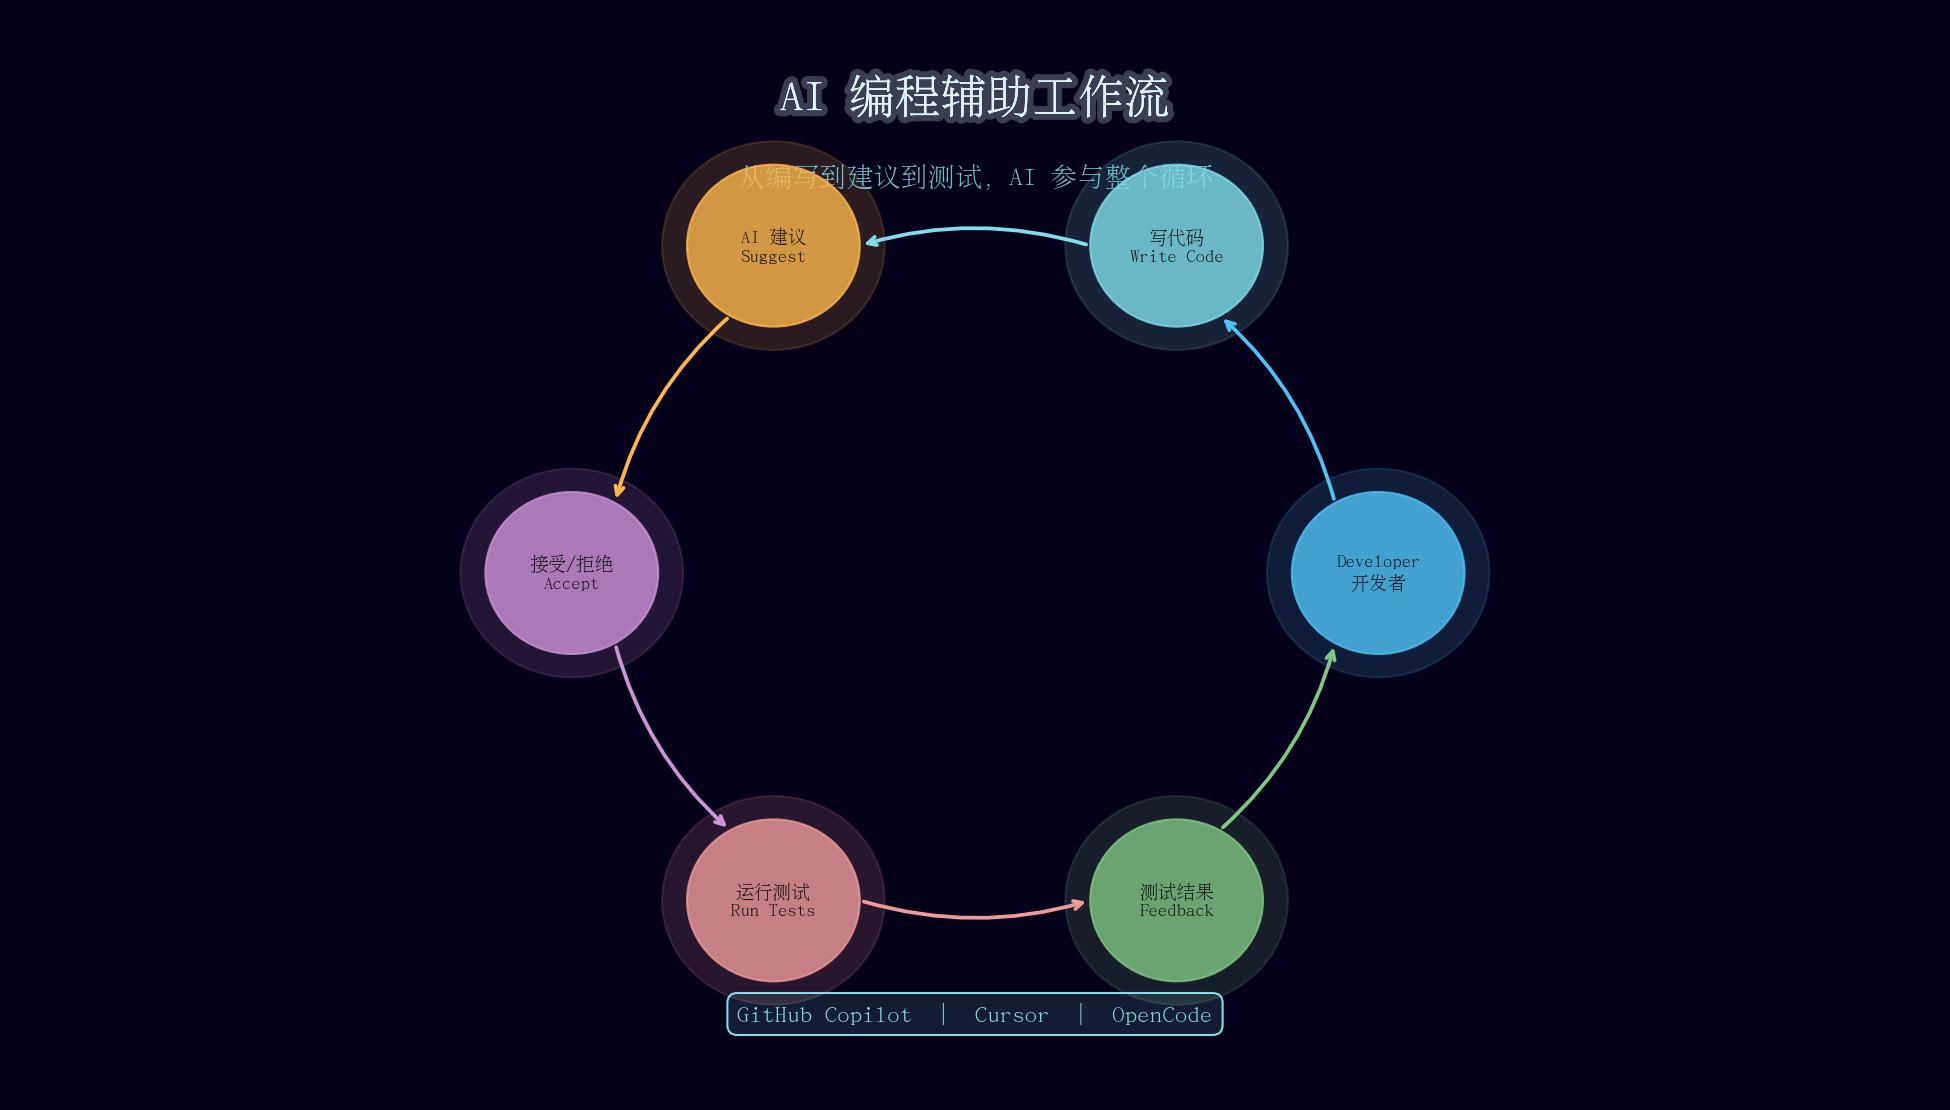
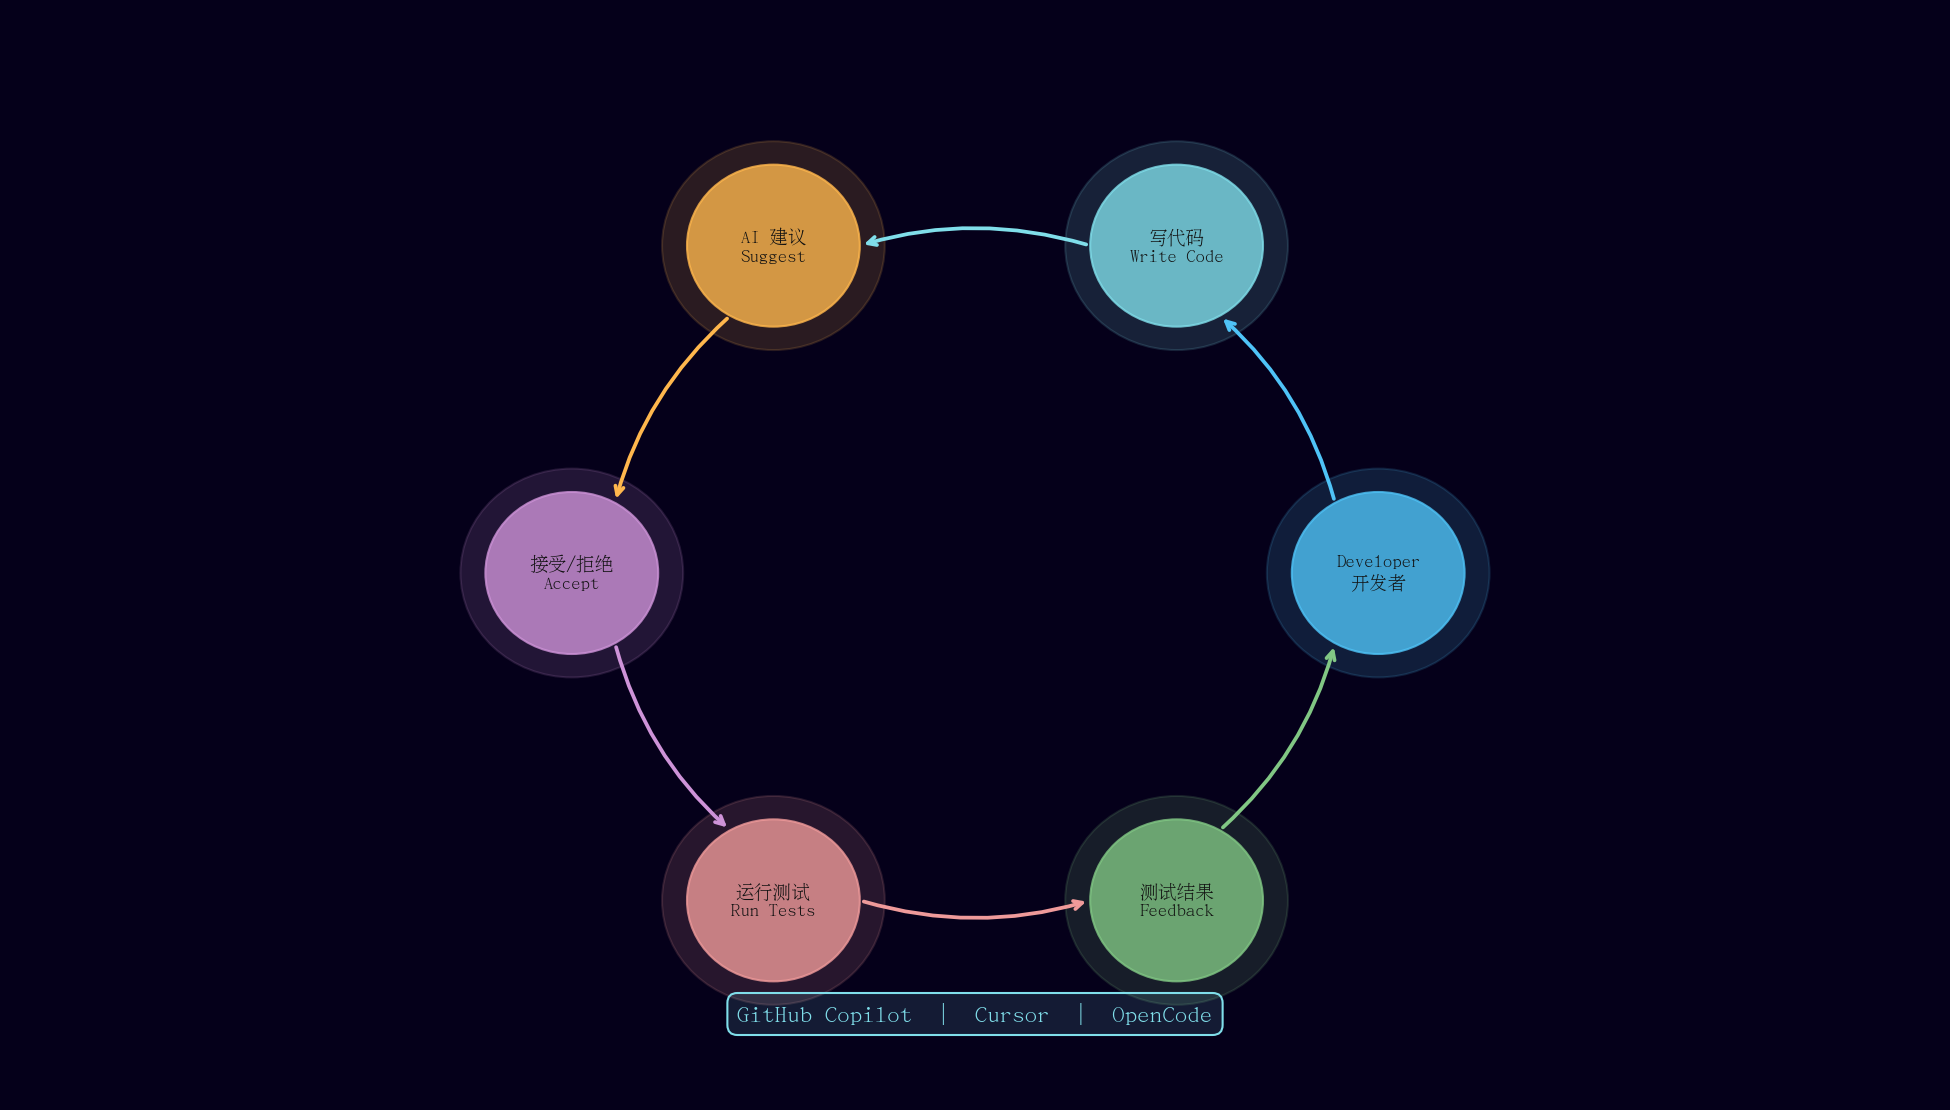
fix: remove embedded titles from all 22 generated PNG diagrams
All diagram functions had glow_text() titles and ax.text() subtitles
drawn inside the axes area (y≈5.5–5.9 in a 0–6 range), which caused:
- Double-title collision: slide's own HTML title + PNG-embedded title
- Content area compression: ~17% of image height wasted on redundant text
- Small boxes and labels visually crowded by titles above them

Changes:
- Remove all 22 title/subtitle text calls from gen_diagrams.py
- Regenerate all public/diagrams/*.png with the cleaned layout

The slide title/subtitle already renders from slide data fields;
PNG images should be purely visual content without duplicate headers.

Changed region(s): [[0.4, 0.0613, 0.6154, 0.1225], [0.4, 0.1532, 0.5846, 0.1838]]

diff --git a/scripts/gen_diagrams.py b/scripts/gen_diagrams.py
@@ -128,10 +128,6 @@ def gen_timeline(f, t):
                 fontsize=8, ha='center', va='center',
                 color=t['accent'], alpha=0.8)
 
-    glow_text(ax, 1987, 1.3, 'AI 发展时间线  1950 — 2022',
-              fontsize=22, color=t['text'], fontweight='bold')
-    ax.text(1987, 1.18, '从一个思想实验，到改变世界的引擎',
-            fontsize=13, ha='center', va='center', color=t['accent'], alpha=0.8)
 
 
 
@@ -179,10 +175,6 @@ def gen_neural_network(f, t):
             for y2 in ys2:
                 ax.plot([x1, x2], [y1, y2], color='white', lw=0.6, alpha=0.12, zorder=1)
 
-    glow_text(ax, 2.5, 4.25, '多层感知机 MLP — "模拟大脑的信号传递"',
-              fontsize=20, color=t['text'], fontweight='bold')
-    ax.text(2.5, 4.05, '每一层神经元提取更抽象的特征，就像人类从像素到轮廓到概念的认知过程',
-            fontsize=12, ha='center', va='center', color=t['accent'], alpha=0.8)
 
 
 
@@ -255,9 +247,6 @@ def gen_transformer(f, t):
     ax.text(5.05, 4.65, 'context', fontsize=9, ha='center',
             color=accent, style='italic', alpha=0.8)
 
-    # Title
-    glow_text(ax, 5, 6.85, 'Transformer 架构  "让每个词都能关注所有其他词"',
-              fontsize=20, color=t['text'], fontweight='bold')
 
 
 
@@ -306,10 +295,6 @@ def gen_attention_heatmap(f, t):
     cbar.ax.set_facecolor(t['bg'])
     cbar.ax.figure.patch.set_facecolor(t['bg'])
 
-    f.text(0.5, 0.92, 'Attention 热力图  "猫" 在关注谁？',
-           ha='center', fontsize=20, color=t['text'], fontweight='bold')
-    f.text(0.5, 0.87, '颜色越亮 = 注意力权重越高。"猫" 这个词主要关注主语"它"和修饰词"聪明"',
-           ha='center', fontsize=13, color=t['accent'], alpha=0.85)
 
 
 
@@ -369,10 +354,6 @@ def gen_rl_loop(f, t):
     ys = ry * np.sin(theta) + 4.9
     ax.plot(xs, ys, color=accent, lw=2, alpha=0.5, zorder=2)
 
-    glow_text(ax, 5, 5.65, '强化学习循环  "在试错中学会最优策略"',
-              fontsize=20, color=t['text'], fontweight='bold')
-    ax.text(5, 5.35, 'Agent 观察状态 → 选择动作 → 获得奖励 → 更新策略 → 循环',
-            fontsize=13, ha='center', color=accent, alpha=0.85)
 
 
 
@@ -440,10 +421,6 @@ def gen_agent_loop(f, t):
     ax.text(5, 0.2, '工具集  Tools', fontsize=11,
             ha='center', color='#FFB74D', alpha=0.6)
 
-    glow_text(ax, 5, 5.65, 'AI Agent 执行循环  "思考 → 行动 → 观察"',
-              fontsize=20, color=t['text'], fontweight='bold')
-    ax.text(5, 5.35, '现代 Agent（AutoGPT / Claude / Copilot）都在跑这个循环',
-            fontsize=13, ha='center', color=accent, alpha=0.85)
 
 
 
@@ -525,10 +502,6 @@ def gen_multi_agent(f, t):
                 bbox=dict(boxstyle='round,pad=0.15', facecolor=t['bg'] + 'DD',
                           edgecolor='none'))
 
-    glow_text(ax, 5, 6.6, '多 Agent 协作拓扑  "分工协作，比单一 Agent 更强"',
-              fontsize=20, color=t['text'], fontweight='bold')
-    ax.text(5, 6.3, '就像金庸里的丐帮：帮主统筹，各堂口各司其职',
-            fontsize=13, ha='center', color=accent, alpha=0.85)
 
 
 
@@ -675,9 +648,6 @@ def gen_backprop(f, t):
             '气走小周天：蓝色内力前行（前向），橙色气流回溯（反向），循环万次，内力深厚',
             fontsize=12, ha='center', color=text_col, alpha=0.7)
 
-    # ── 标题 ────────────────────────────────────────────────────
-    glow_text(ax, 5.0, 5.9, '反向传播：内力如何运转', fontsize=22,
-              color=text_col, fontweight='bold')
 
 
 
@@ -752,10 +722,6 @@ def gen_perceptron(f, t):
     ax.text(7.5, 1.8, '阈值判断', fontsize=11, ha='center', color='#FFB74D', alpha=0.8)
     ax.text(9.3, 1.8, '输出', fontsize=11, ha='center', color='#81C784', alpha=0.8)
 
-    glow_text(ax, 5.0, 5.6, '感知机：神经网络的雏形', fontsize=22,
-              color=text_col, fontweight='bold')
-    ax.text(5.0, 5.1, '加权求和 + 激活函数 = 最简单的"神经元"',
-            fontsize=13, ha='center', va='center', color=accent, alpha=0.85)
 
 
 
@@ -816,8 +782,6 @@ def gen_feature_vs_dl(f, t):
             fontweight='bold',
             bbox=dict(boxstyle='round,pad=0.3', facecolor='#4FC3F730', edgecolor='#4FC3F7'))
 
-    glow_text(ax, 5.0, 5.75, '特征工程 vs 深度学习', fontsize=22,
-              color=text_col, fontweight='bold')
 
 
 
@@ -870,8 +834,6 @@ def gen_scaling_law(f, t):
     legend = ax.legend(fontsize=12, facecolor=t['bg'], edgecolor=accent,
                        labelcolor=text_col, loc='upper right')
 
-    glow_text(ax, 22.5, 8.8, '规模定律：越大越强', fontsize=20,
-              color=text_col, fontweight='bold')
 
 
 
@@ -943,8 +905,6 @@ def gen_mcts(f, t):
     ax.text(3.5, 0.75, '随机模拟\n结果评估', fontsize=9, ha='center',
             color='#4FC3F7', alpha=0.85)
 
-    glow_text(ax, 5.0, 0.4, 'AlphaGo: 蒙特卡洛树搜索', fontsize=20,
-              color=text_col, fontweight='bold')
 
 
 
@@ -988,12 +948,6 @@ def gen_rlhf_pipeline(f, t):
         ax.annotate('', xy=(x2, 3.2), xytext=(x1, 3.2),
                     arrowprops=dict(arrowstyle='->', color=color, lw=3), zorder=5)
 
-    # Top description
-    ax.text(5.0, 5.2, 'RLHF: 让 AI 学会人类偏好', fontsize=22,
-            ha='center', va='center', color=text_col, fontweight='bold',
-            path_effects=[pe.withStroke(linewidth=8, foreground=accent + '40'), pe.Normal()])
-    ax.text(5.0, 4.65, '三阶段训练：先模仿，再打分，再用分数优化',
-            fontsize=13, ha='center', va='center', color=accent, alpha=0.85)
 
     # Bottom note
     ax.text(5.0, 1.5, '注：PPO = Proximal Policy Optimization (近端策略优化)',
@@ -1056,8 +1010,6 @@ def gen_dpo_vs_rlhf(f, t):
     ax.text(rx + 1.6, 2.8, '无需\n奖励模型', fontsize=10, ha='center',
             color='#81C784', alpha=0.85, linespacing=1.4)
 
-    glow_text(ax, 5.0, 5.72, 'DPO: 去掉奖励模型，直接优化', fontsize=20,
-              color=text_col, fontweight='bold')
 
 
 
@@ -1113,10 +1065,6 @@ def gen_agent_memory(f, t):
         ax.annotate('', xy=(cx, ay2), xytext=(cx, ay1),
                     arrowprops=dict(arrowstyle='<->', color=color, lw=2), zorder=5)
 
-    glow_text(ax, 5.0, 5.72, 'Agent 记忆三层架构', fontsize=22,
-              color=text_col, fontweight='bold')
-    ax.text(5.0, 5.35, '工作记忆快但易失，语义记忆慢但持久',
-            fontsize=13, ha='center', va='center', color=accent, alpha=0.85)
 
 
 
@@ -1180,10 +1128,6 @@ def gen_function_calling(f, t):
                     arrowprops=dict(arrowstyle='<->', color=tc, lw=1.2,
                                    connectionstyle='arc3,rad=0.2'), zorder=2)
 
-    glow_text(ax, 5.0, 5.4, 'Agent 工具调用：Function Calling', fontsize=21,
-              color=text_col, fontweight='bold')
-    ax.text(5.0, 4.95, 'LLM 决定何时调用哪个工具，整合结果后回答用户',
-            fontsize=13, ha='center', va='center', color=accent, alpha=0.85)
 
 
 
@@ -1246,10 +1190,6 @@ def gen_copilot_workflow(f, t):
             color=accent, fontweight='bold',
             bbox=dict(boxstyle='round,pad=0.4', facecolor=accent + '20', edgecolor=accent))
 
-    glow_text(ax, 5.0, 5.55, 'AI 编程辅助工作流', fontsize=22,
-              color=text_col, fontweight='bold')
-    ax.text(5.0, 5.1, '从编写到建议到测试，AI 参与整个循环',
-            fontsize=13, ha='center', va='center', color=accent, alpha=0.85)
 
 
 
@@ -1309,10 +1249,6 @@ def gen_rag_pipeline(f, t):
             lw=1.5, linestyle=':', alpha=0.9, zorder=3)
     ax.text(7.7, 3.1, '存储', fontsize=9, color='#FFB74D', ha='center')
 
-    glow_text(ax, 5.0, 5.5, 'RAG: 知识检索增强生成', fontsize=22,
-              color=text_col, fontweight='bold')
-    ax.text(5.0, 5.1, '先建索引，再检索相关片段，最后结合上下文生成答案',
-            fontsize=13, ha='center', va='center', color=accent, alpha=0.85)
 
     # Phase labels
     ax.text(5.0, 1.1, '检索阶段：运行时实时查询', fontsize=11, ha='center',
@@ -1370,8 +1306,6 @@ def gen_ai_risks(f, t):
         ax.text(qx, qy, qlbl, fontsize=10, ha='center', va='center',
                 color='#777', alpha=0.6, linespacing=1.4)
 
-    glow_text(ax, 5.0, 10.8, 'AI 风险地图', fontsize=22,
-              color=text_col, fontweight='bold')
 
 
 
@@ -1419,8 +1353,6 @@ def gen_dl_timeline(f, t):
         ax.text(year, -0.15 if ypos > 0 else 0.13, str(year),
                 fontsize=8, ha='center', va='center', color=accent, alpha=0.7)
 
-    glow_text(ax, 2004, 1.55, '深度学习发展时间线  1986 — 2022',
-              fontsize=20, color=text_col, fontweight='bold')
 
 
 
@@ -1467,8 +1399,6 @@ def gen_llm_timeline(f, t):
         ax.text(year, -0.15 if ypos > 0 else 0.13, str(year),
                 fontsize=8, ha='center', va='center', color=accent, alpha=0.7)
 
-    glow_text(ax, 2020.5, 1.55, '大语言模型发展时间线  2017 — 2024',
-              fontsize=20, color=text_col, fontweight='bold')
 
 
 
@@ -1515,8 +1445,6 @@ def gen_agent_timeline(f, t):
         ax.text(year, -0.15 if ypos > 0 else 0.13, yr_str,
                 fontsize=8, ha='center', va='center', color=accent, alpha=0.7)
 
-    glow_text(ax, 2023.2, 1.55, 'Agent 工具链发展时间线  2022 — 2024',
-              fontsize=20, color=text_col, fontweight='bold')
 
 
 
